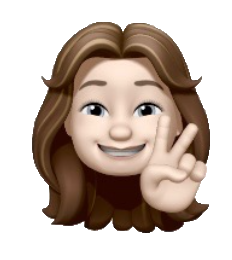
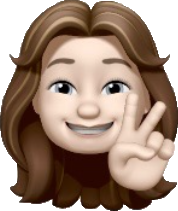
new-files

diff --git a/styles-mobile.css b/styles-mobile.css
@@ -160,7 +160,7 @@ p{
 }
 
 #bibliography{
-  width:40vw;
+  width:95vw;
   font-family:Neue-MachinaLight;
   font-size: 0.5rem;
   line-height:0.8rem;
@@ -172,7 +172,7 @@ p{
 }
 
 .biblio{
-  columns: 2;
+  columns: 1;
 }
 
 .footnote {
@@ -270,6 +270,7 @@ p{
   height:auto;
   padding-top:0;
   margin-top:0;
+/*  margin-right:0.5em;*/
   position: -webkit-sticky !important;
   position: sticky !important;
   top: 0;
@@ -278,13 +279,19 @@ p{
 
 
 #indexImg{
-  width:100%;
-  padding:1rem;
-  padding-top:1rem;
+  width:60%;
   padding-left:0;
   padding-bottom:0;
+  position:absolute;
+  left:40%;
+  top:0.9em;
 }
 
+#icon{
+  font-size:1rem;
+  font-family:Neue-Machina;
+  padding-top:1rem;
+}
 
 .myIndex {
   display: none; 

diff --git a/index.html b/index.html
@@ -55,8 +55,14 @@
 				</div>
 
 				<div class="two">
-	          		<img id="indexImg" src="img/index.png"/>
-					
+	          		
+					<figure>
+		          		<figcaption id="icon">
+		           	 			INDEX
+		          		</figcaption>
+		          		<img id="indexImg" src="img/indexx.png"/>
+					</figure>
+
 					<div id="myIndex" class="myIndex">
 
 						<div class="myIndex-modal-container">

diff --git a/styles.css b/styles.css
@@ -275,13 +275,18 @@ p{
 
 
 #indexImg{
-  width: 40%;
-  padding:1rem;
+  width: 100%;
+/*  padding:1rem;
   padding-top:1.5rem;
-  padding-left:13vw;
+  padding-left:13vw;*/
   padding-bottom:0;
 }
 
+#icon{
+  font-size:1rem;
+  font-family:Neue-Machina;
+  padding-top:0.8rem;
+}
 
 .myIndex {
   display: none; 
